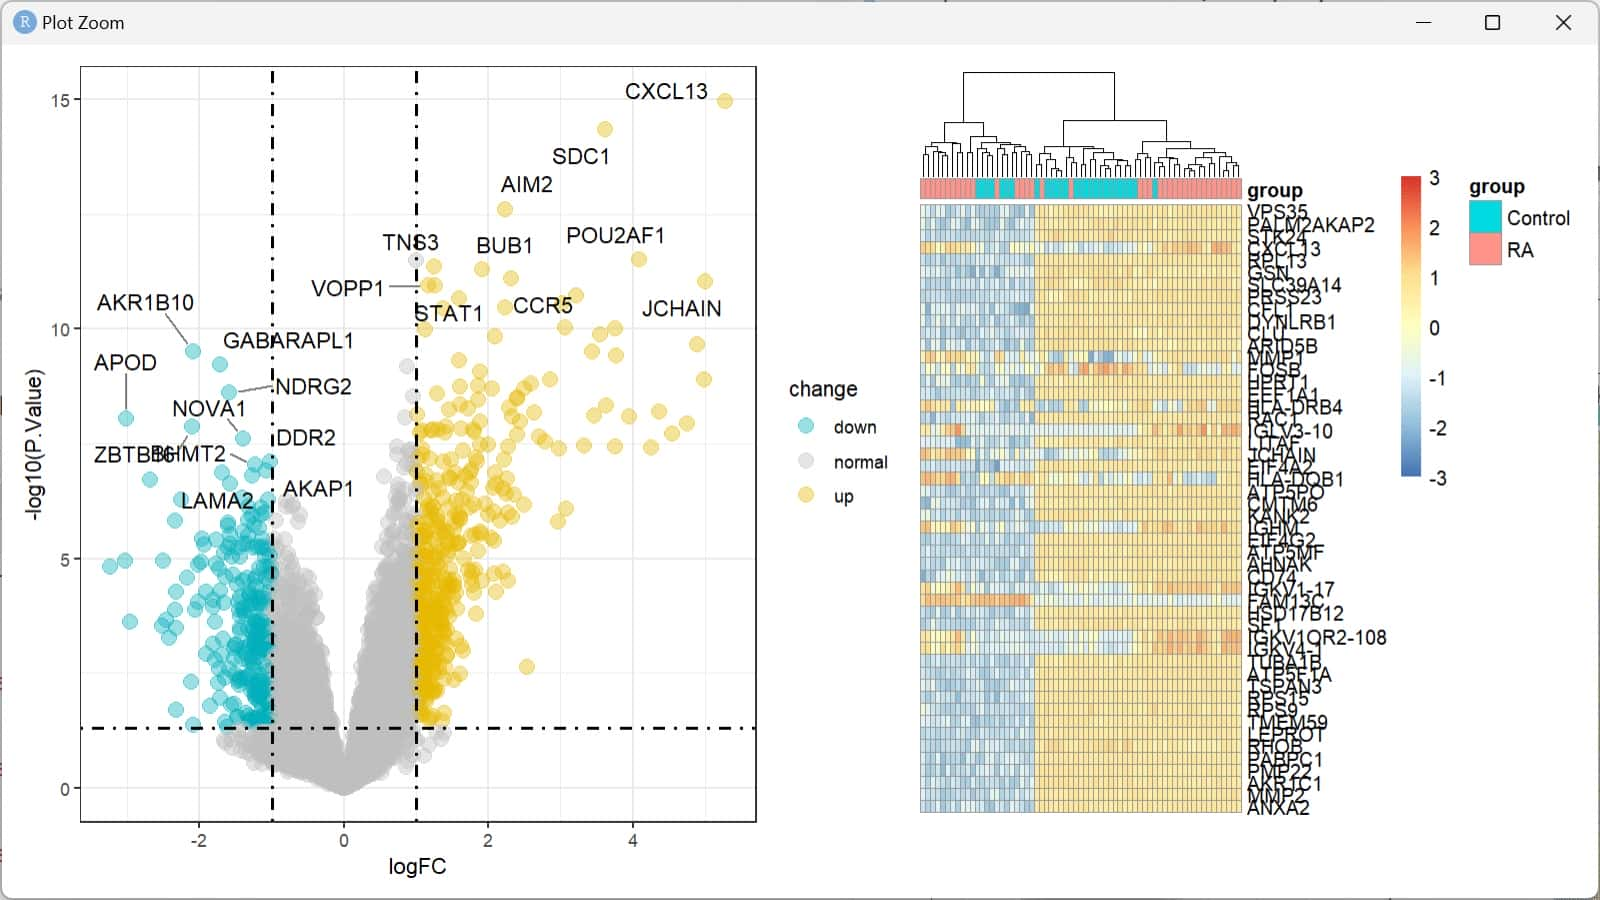
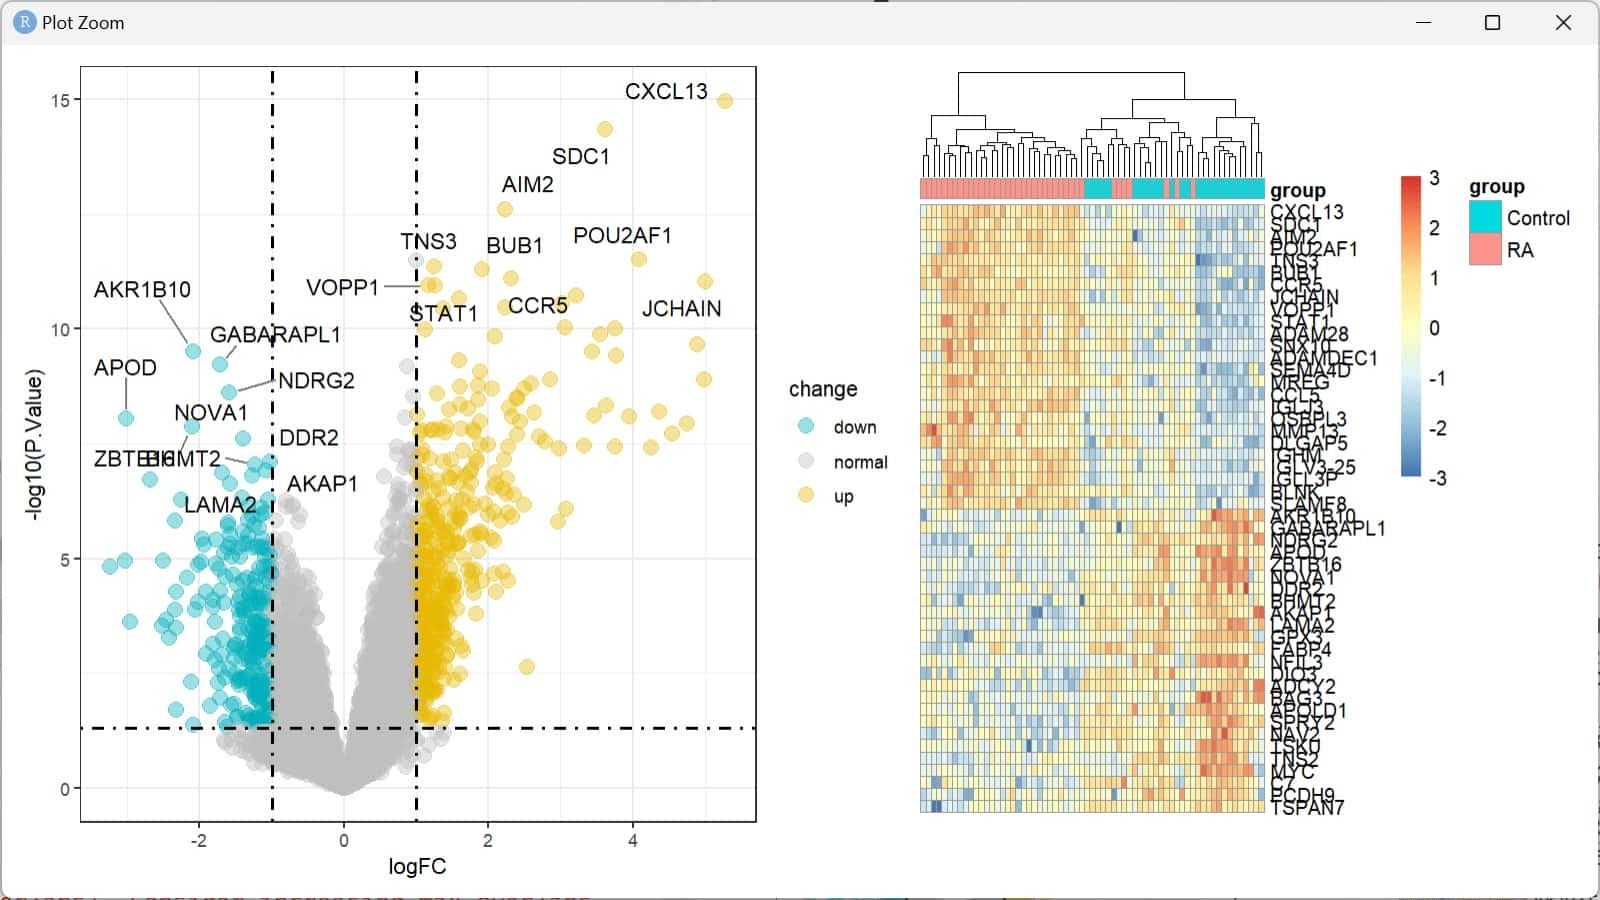
add comments

diff --git a/10.3389/fimmu.2024.1387311/README.md b/10.3389/fimmu.2024.1387311/README.md
@@ -62,7 +62,10 @@ rownames(df) = c(1, 2, 3, 4)
 
 ![Table 01](res/rep01_tab.jpg)
 
-**注**：原作者犯了低级错误：把平台 GPL 打成 GLP，提示我们能生成尽量不要手打。
+**注**：原作者犯了低级错误：
+把平台 GPL 打成 GLP，
+**而且数据集和平台的对应关系错误** (double checked)，
+提示我们能生成尽量不要手打。
 
 ### Data Processing
 
@@ -75,7 +78,7 @@ rownames(df) = c(1, 2, 3, 4)
 ### Figure 02
 
 * 火山图 (volcano plot)
-* 热图 (heat map)
+* 差异基因热图 (DEG heat map)
 
 > DEG
 > 
